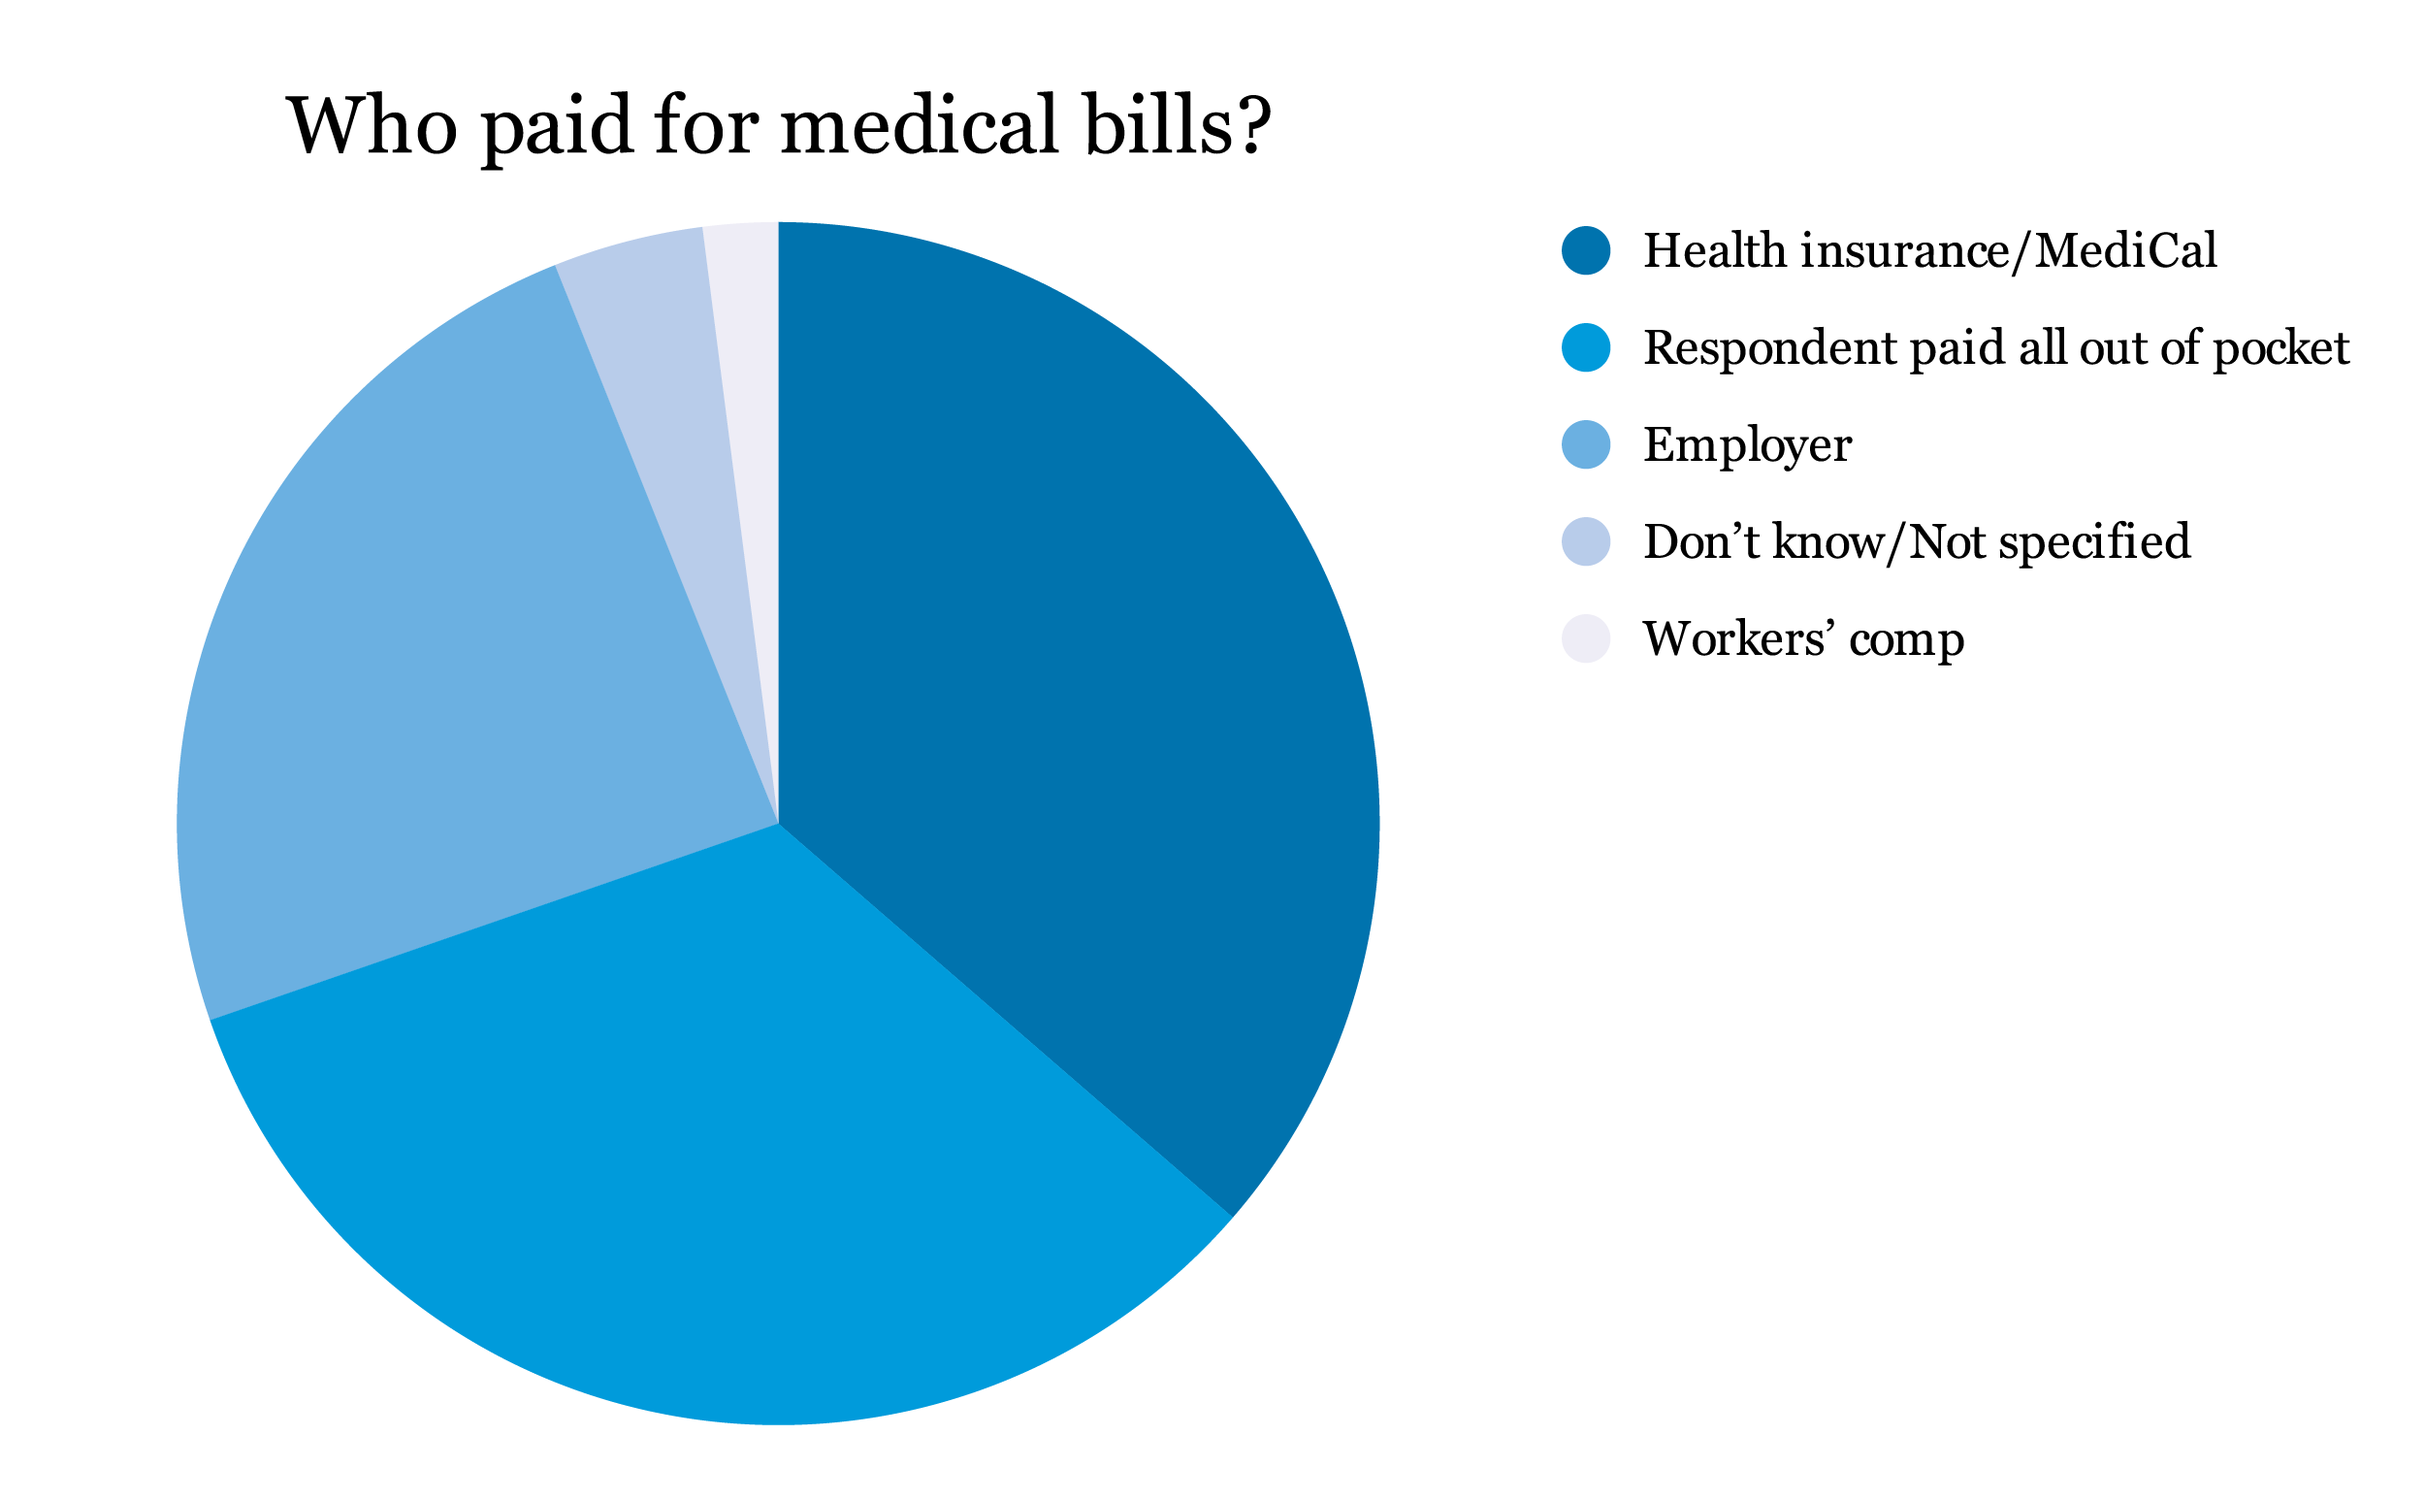
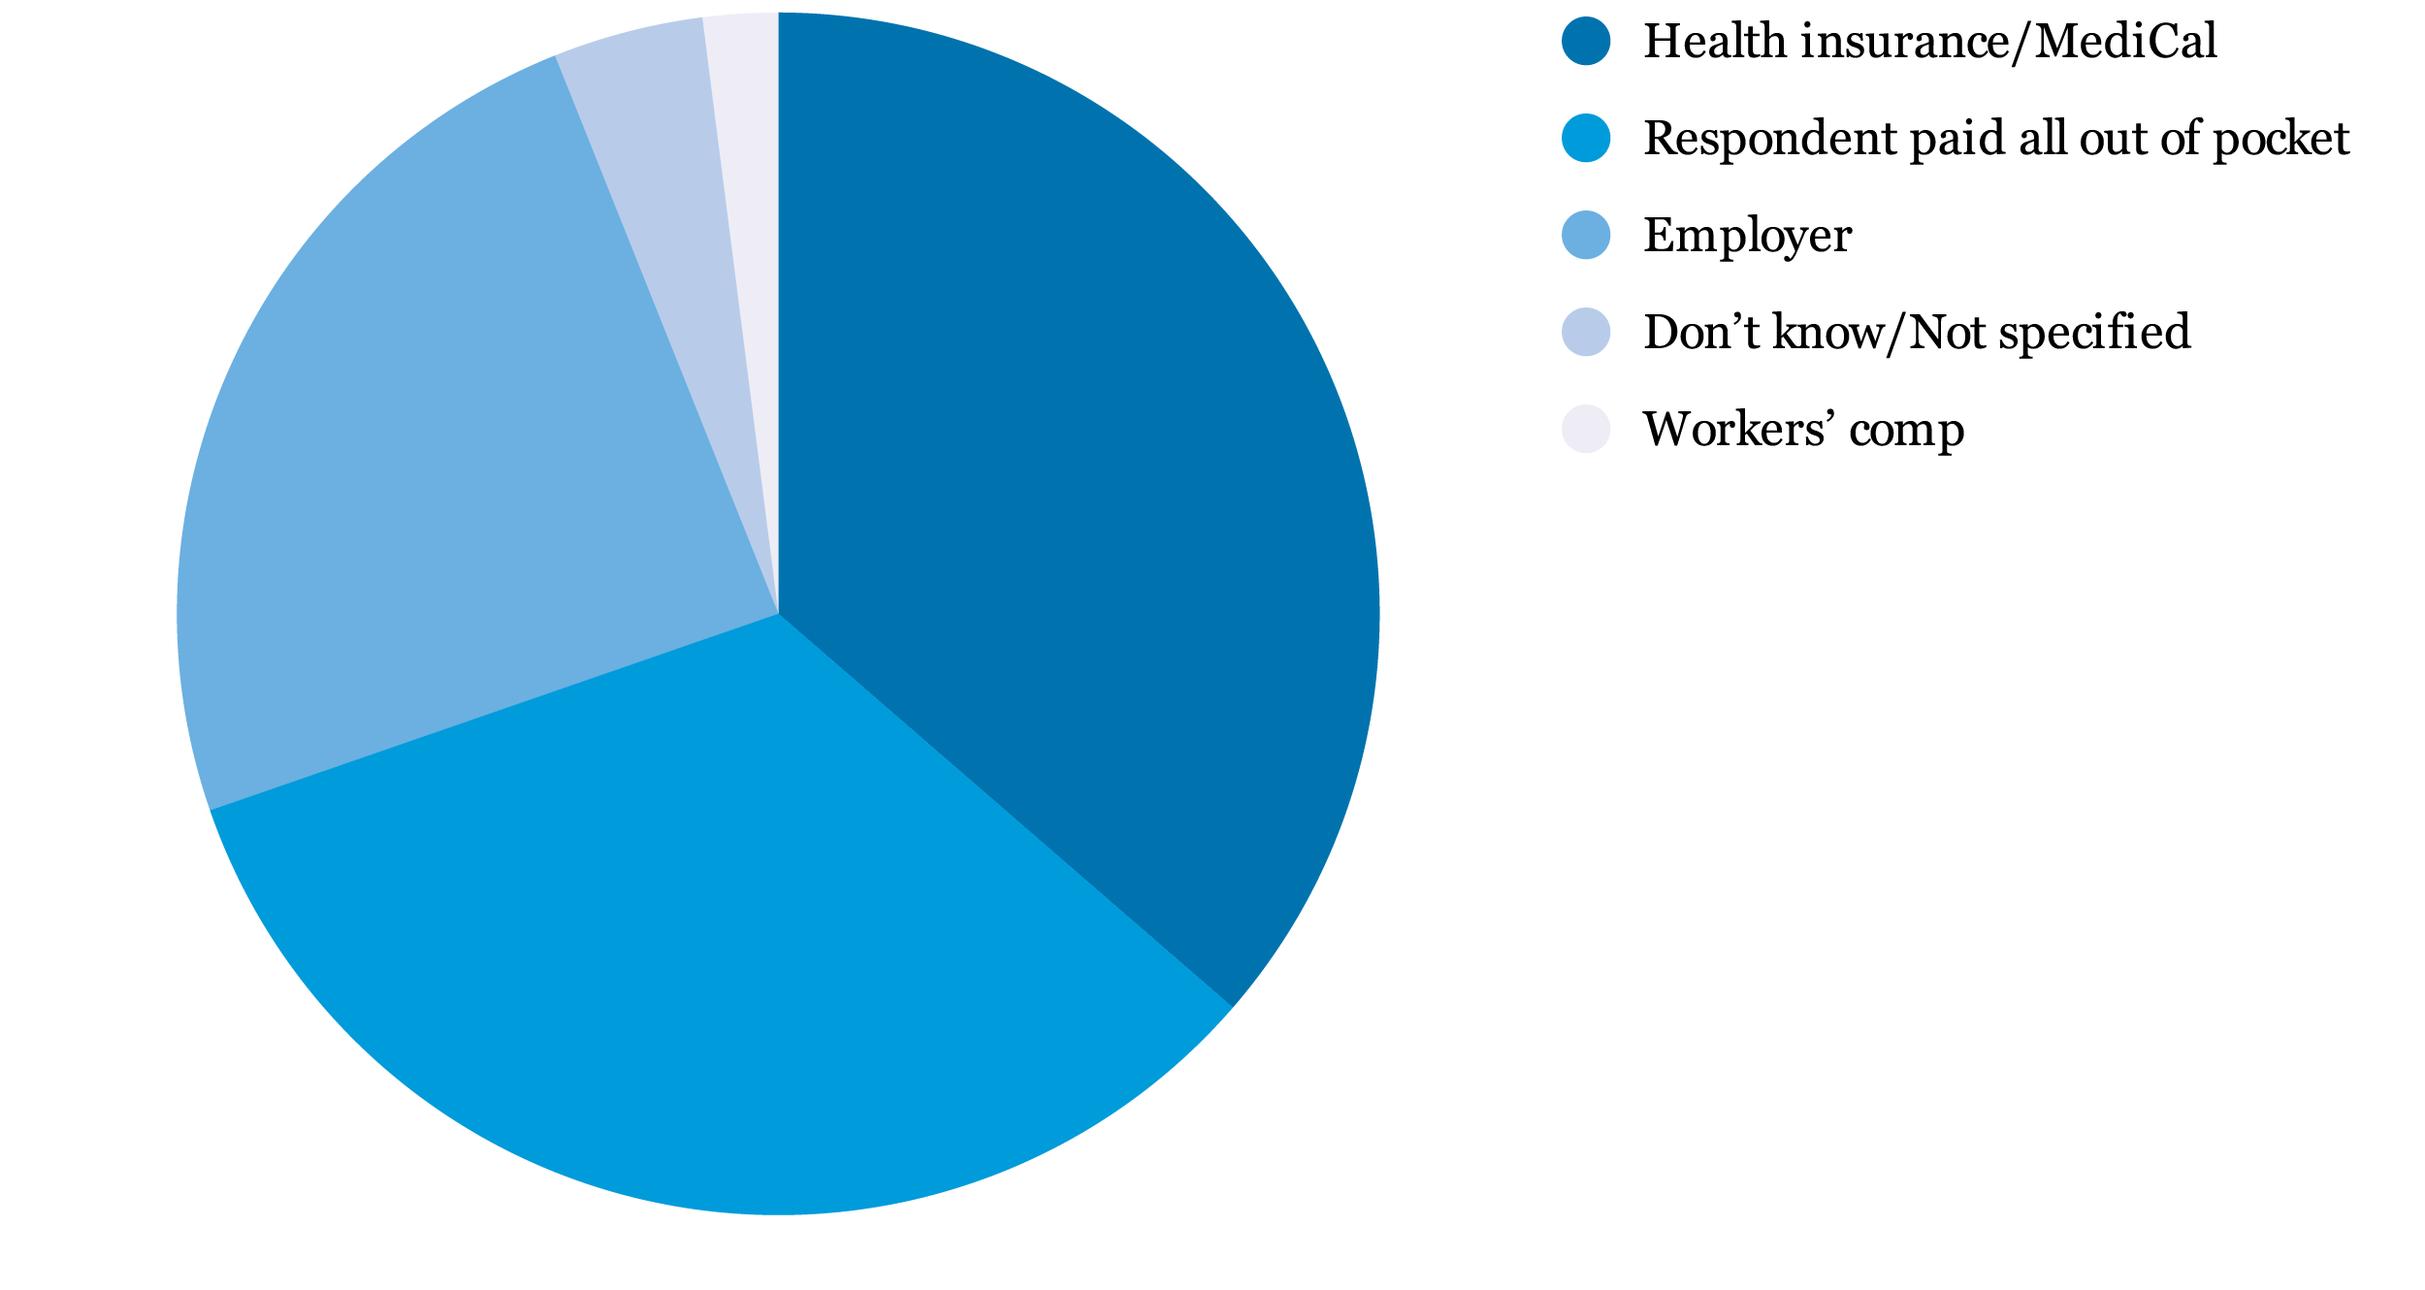
Website updates

diff --git a/src/index.html b/src/index.html
@@ -31,12 +31,12 @@
       
       <div class="title">
         <h1 id="main-title">Second Class</h1>
-        <div class="deck">California's undocumented workers build our houses, wash our cars and clean our gyms. But they often lack the basic health and safety protections that are every worker's right.
+        <div class="deck"><span style="font-family:Source Sans Pro">California's undocumented workers build our houses, wash our cars and clean our gyms. But they often lack the basic health and safety protections that are every worker's right.</span>
           <br>
           <br>
           <br>
           <br>
-          By Alex Nieves and Anne Wernikoff
+          <span style="font-family:Source Sans Pro">By Alex Nieves and Anne Wernikoff</span>
        </div>
        </div>
 
@@ -64,8 +64,9 @@
 
 </article>
 
+<p><center><b><span style="font-family:Source Sans Pro">Injury rates by nativity/immigration status</span></b></center></p>
 <div class="inline-asset">
-         <img src="./assets/data_viz/injury_rates.png">
+         <img src="./assets/data_viz/injury_rates_update.png">
         </div>
 
 <p>What follows are the stories of two California undocumented workers and a labor organizer that reveal the challenges they face and the story of a state legislator trying to fix the problem.</p>
@@ -191,7 +192,7 @@
 
         <blockquote>
           <q>As challenging as it can be to navigate the Cal/OSHA world, workers’ comp is just a mess.</q> 
-          <cite>— Kevin Riley, director of research at the UCLA Labor Occupational Safety and Health Program.</cite>
+          <cite><span style="font-family:Source Sans Pro">— Kevin Riley, director of research at the UCLA Labor Occupational Safety and Health Program.</span></cite>
         </blockquote>
 
         <br>
@@ -216,6 +217,7 @@
 
         <p>Most workers end up paying medical bills out of pocket or through Medi-Cal—meaning taxpayers are footing the bill instead of employers. The UCLA researchers found this to be the case for 70 percent of the workers surveyed.</p>
 
+        <p><center><b><span style="font-family:Source Sans Pro">Who paid for medical bills?</span></b></center></p>
         <div class="inline-asset">
          <img src="./assets/data_viz/medical_bills.png">
          <div class="caption">Source: UCLA Labor Occupational Safety and Health Program</div>
@@ -284,7 +286,7 @@
 
         <blockquote>
           <q>I still feel afraid, because I do not know if that person can follow me. And I feel that fear that, maybe just for not having papers, he can do something.</q> 
-          <cite>— Lupe, undocumented worker.</cite>
+          <cite><span style="font-family:Source Sans Pro">— Lupe, undocumented worker.</span></cite>
         </blockquote>
 
         <br>

diff --git a/src/css/project.less b/src/css/project.less
@@ -192,6 +192,7 @@ q{
 cite{
 	display: block;
 	text-align: right;
+	font-size: 1rem;
 }
 
 .largevideo{
